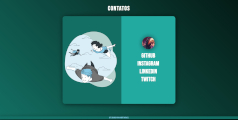
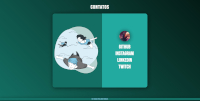
update projeto-portifolio

diff --git a/estilos/style.css b/estilos/style.css
@@ -124,7 +124,7 @@ menu {
     border-radius: 20px;
     box-shadow: 0px 0px 20px rgba(0, 0, 0, 0.76);
     width: 300px;
-    height: 650px;
+    height: 690px;
 }
 
 #info > h2 {
@@ -139,66 +139,44 @@ menu {
     text-align: justify;
 }
 
-#projetos-um {
-    width: 270px;
+#projetos {
+    width: 250px;
+    height: 570px;
     margin: auto;
 }
 
 #projeto-login {
-    width: 120px;
-    height: 120px;
-    border-radius: 20px;
-    float: left;
-}
-
-#projeto-login > img {
-    width: 130px;
-    height: 120px;
-    border-radius: 20px;
+    width: 200px;
+    height: 90px;
+    margin: auto;
+    margin-top: 20px;
+    margin-bottom: 20px;
+    border-radius: 15px;
+    overflow: hidden;
 }
 
 #projeto-android {
-    width: 120px;
-    height: 120px;
-    border-radius: 20px;
-    float: right;
-}
-
-#projeto-android > img {
-    width: 130px;
-    height: 120px;
-    border-radius: 20px;
-}
-
-#projetos-dois {
-    width: 270px;
+    width: 200px;
+    height: 100px;
     margin: auto;
-}
-
-#projeto-cordel {
-    width: 120px;
-    height: 120px;
-    border-radius: 20px;
-    float: left;
-}
-
-#projeto-cordel > img {
-    width: 130px;
-    height: 120px;
-    border-radius: 20px;
-    margin-top: 20px;
+    margin-bottom: 20px;
+    border-radius: 15px;
+    overflow: hidden;
 }
 
 #projeto-landing-page {
-    width: 120px;
-    height: 120px;
-    border-radius: 20px;
-    float: right;
+    width: 200px;
+    height: 100px;
+    margin: auto;
+    margin-bottom: 20px;
+    border-radius: 15px;
+    overflow: hidden;
 }
 
-#projeto-landing-page > img {
-    width: 130px;
-    height: 120px;
-    border-radius: 20px;
-    margin-top: 20px;
+#projeto-cordel {
+    width: 200px;
+    height: 100px;
+    margin: auto;
+    border-radius: 15px;
+    overflow: hidden;
 }

diff --git a/index.html b/index.html
@@ -42,21 +42,20 @@
         <section id="info">
             <h2>Meus projetos</h2>
             <p>Projetos criados para os cursos de CursoemVídeo.</p>
-            <aside id="projetos-um">
+            <section id="projetos">
                 <div id="projeto-login">
                     <img src="imagens/projeto-login-p.jpg" alt="projeto-login">
                 </div>
                 <div id="projeto-android">
                     <img src="imagens/projeto-android-p.jpg" alt="projeto-android">
                 </div>
-            </aside>
-            <aside id="projetos-dois">
-                <div id="projeto-cordel">
-                    <img src="imagens/projeto-cordel-p.jpg" alt="projeto-cordel">
-                </div>
                 <div id="projeto-landing-page">
                     <img src="imagens/projeto-landing-page-p.jpg" alt="projeto-landing-page">
                 </div>
+                <div id="projeto-cordel">
+                    <img src="imagens/projeto-cordel-p.jpg" alt="projeto-cordel">
+                </div>
+            </section>
             </aside>
         </section>
 
